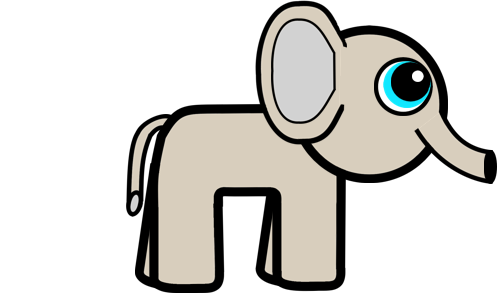
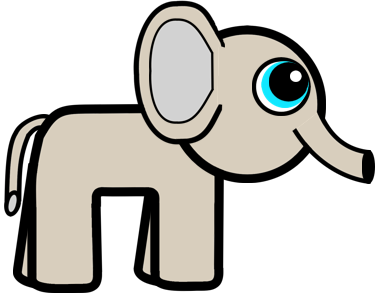
Better title screen

diff --git a/index.html b/index.html
@@ -5,61 +5,53 @@
     <meta name="viewport" content="width=device-width, initial-scale=1.0" />
     <title>Joshua Job | CTO</title>
     <link rel="stylesheet" href="styles.css" />
+    <link rel="stylesheet" href="hero.css" />
   </head>
   <body>
     <div class="page-shell">
-      <header class="hero-title">
-        <div class="hero-title__copy">
-          <p class="hero-title__eyebrow">Joshua Job</p>
-          <h1 class="hero-title__heading">
-            Calculating Comedian<br />and Witty Programmer
-          </h1>
-          <p class="hero-title__sub">
-            Working on Eduquest. The best business in the world!
+      <header class="hero">
+        <div class="hero__photo-panel">
+          <img
+            src="assets/Joshua Job.JPG"
+            alt="Joshua Job"
+            class="hero__photo"
+          />
+          <span class="hero__panel-label hero__panel-label--left"
+            >The Human</span
+          >
+        </div>
+
+        <div class="hero__center">
+          <h1 class="hero__name">Joshua<br />Job</h1>
+          <p class="hero__tagline">
+            <em>Calculating Comedian</em><br />
+            and Witty Programmer
           </p>
-          <div class="hero-title__actions">
+          <div class="hero__actions">
             <a class="btn btn--primary" href="#about">About Me →</a>
             <a class="btn btn--secondary" href="#contact">Contact</a>
           </div>
         </div>
-        <div class="hero-title__side">
-          <div class="hero-title__elephant-panel">
-            <img
-              src="assets/Elephant.png"
-              alt="Joshua's elephant logo"
-              class="hero-title__elephant"
-            />
-            <span class="hero-title__panel-label">The Engineer</span>
-          </div>
-          <div class="hero-title__info-card">
-            <p class="card-label">Currently</p>
-            <p>Co-founder at BYU</p>
-            <p class="card-label">Find me on</p>
-            <ul class="links">
-              <li>
-                <a
-                  href="https://github.com/joshuajob-cs"
-                  target="_blank"
-                  rel="noreferrer"
-                  >GitHub</a
-                >
-              </li>
-              <li>
-                <a
-                  href="https://www.linkedin.com/in/joshua-job-cs/"
-                  target="_blank"
-                  rel="noreferrer"
-                  >LinkedIn</a
-                >
-              </li>
-            </ul>
-          </div>
+
+        <div class="hero__elephant-panel">
+          <img
+            src="assets/Elephant.png"
+            alt="The Engineer"
+            class="hero__elephant"
+          />
+          <span class="hero__panel-label hero__panel-label--right"
+            >The Engineer</span
+          >
         </div>
       </header>
 
       <main>
         <section id="about" class="section card-section">
           <h2>About Me</h2>
+          <p>
+            Working on <strong>Eduquest</strong> — the best business in the
+            world.
+          </p>
           <p>
             Computer Programmer with 4+ years of experience at Grandview High
             School and Brigham Young University. I achieve academic excellence

diff --git a/styles.css b/styles.css
@@ -52,102 +52,6 @@ body {
   padding: 36px 24px 60px;
 }
 
-/* ── Hero Title Component ────────────────────────────────── */
-.hero-title {
-  display: grid;
-  gap: 24px;
-  padding: 48px;
-  background: var(--clr-surface);
-  border-radius: 28px;
-  border: 1px solid var(--clr-border);
-  box-shadow:
-    0 0 0 1px var(--clr-border),
-    0 40px 80px rgba(0, 0, 0, 0.5);
-}
-
-.hero-title__eyebrow {
-  margin: 0 0 20px;
-  font-size: 0.85rem;
-  letter-spacing: 0.2em;
-  text-transform: uppercase;
-  color: var(--clr-cyan);
-  font-weight: 700;
-}
-
-.hero-title__heading {
-  margin: 0;
-  font-size: clamp(2.2rem, 4.5vw, 4rem);
-  font-weight: 900;
-  font-style: italic;
-  line-height: 1.0;
-  color: var(--clr-yellow);
-  text-shadow: 0 0 60px var(--clr-yellow-glow);
-}
-
-.hero-title__sub {
-  margin: 20px 0 0;
-  color: var(--clr-taupe);
-  font-size: 1.05rem;
-  max-width: 50ch;
-}
-
-.hero-title__actions {
-  display: flex;
-  gap: 14px;
-  flex-wrap: wrap;
-  margin-top: 28px;
-}
-
-.hero-title__side {
-  display: flex;
-  flex-direction: column;
-  gap: 16px;
-}
-
-.hero-title__elephant-panel {
-  position: relative;
-  background: var(--clr-surface-2);
-  border-radius: 20px;
-  border: 1px solid var(--clr-border);
-  padding: 24px 20px 16px;
-  display: flex;
-  flex-direction: column;
-  align-items: center;
-  overflow: hidden;
-}
-
-.hero-title__elephant-panel::before {
-  content: '';
-  position: absolute;
-  inset: 0;
-  background: radial-gradient(circle at 50% 65%, var(--clr-yellow-glow), transparent 70%);
-  pointer-events: none;
-}
-
-.hero-title__elephant {
-  width: 100%;
-  max-width: 180px;
-  height: auto;
-  position: relative;
-  filter: drop-shadow(0 6px 20px rgba(0, 0, 0, 0.5));
-}
-
-.hero-title__panel-label {
-  margin: 14px 0 0;
-  font-size: 0.72rem;
-  letter-spacing: 0.2em;
-  text-transform: uppercase;
-  color: var(--clr-text-muted);
-  font-weight: 600;
-  position: relative;
-}
-
-.hero-title__info-card {
-  background: var(--clr-surface-2);
-  border-radius: 18px;
-  padding: 22px 24px;
-  border: 1px solid var(--clr-border);
-}
 
 /* ── Buttons ─────────────────────────────────────────────── */
 .btn {
@@ -235,7 +139,6 @@ h2 {
   margin-top: 40px;
 }
 
-.hero-title__sub,
 .section p,
 .card p,
 .contact-section p {
@@ -312,12 +215,6 @@ h2 {
 }
 
 /* ── Responsive ──────────────────────────────────────────── */
-@media (min-width: 900px) {
-  .hero-title {
-    grid-template-columns: 1.6fr 1fr;
-    align-items: center;
-  }
-}
 
 @media (max-width: 640px) {
   .page-shell {
